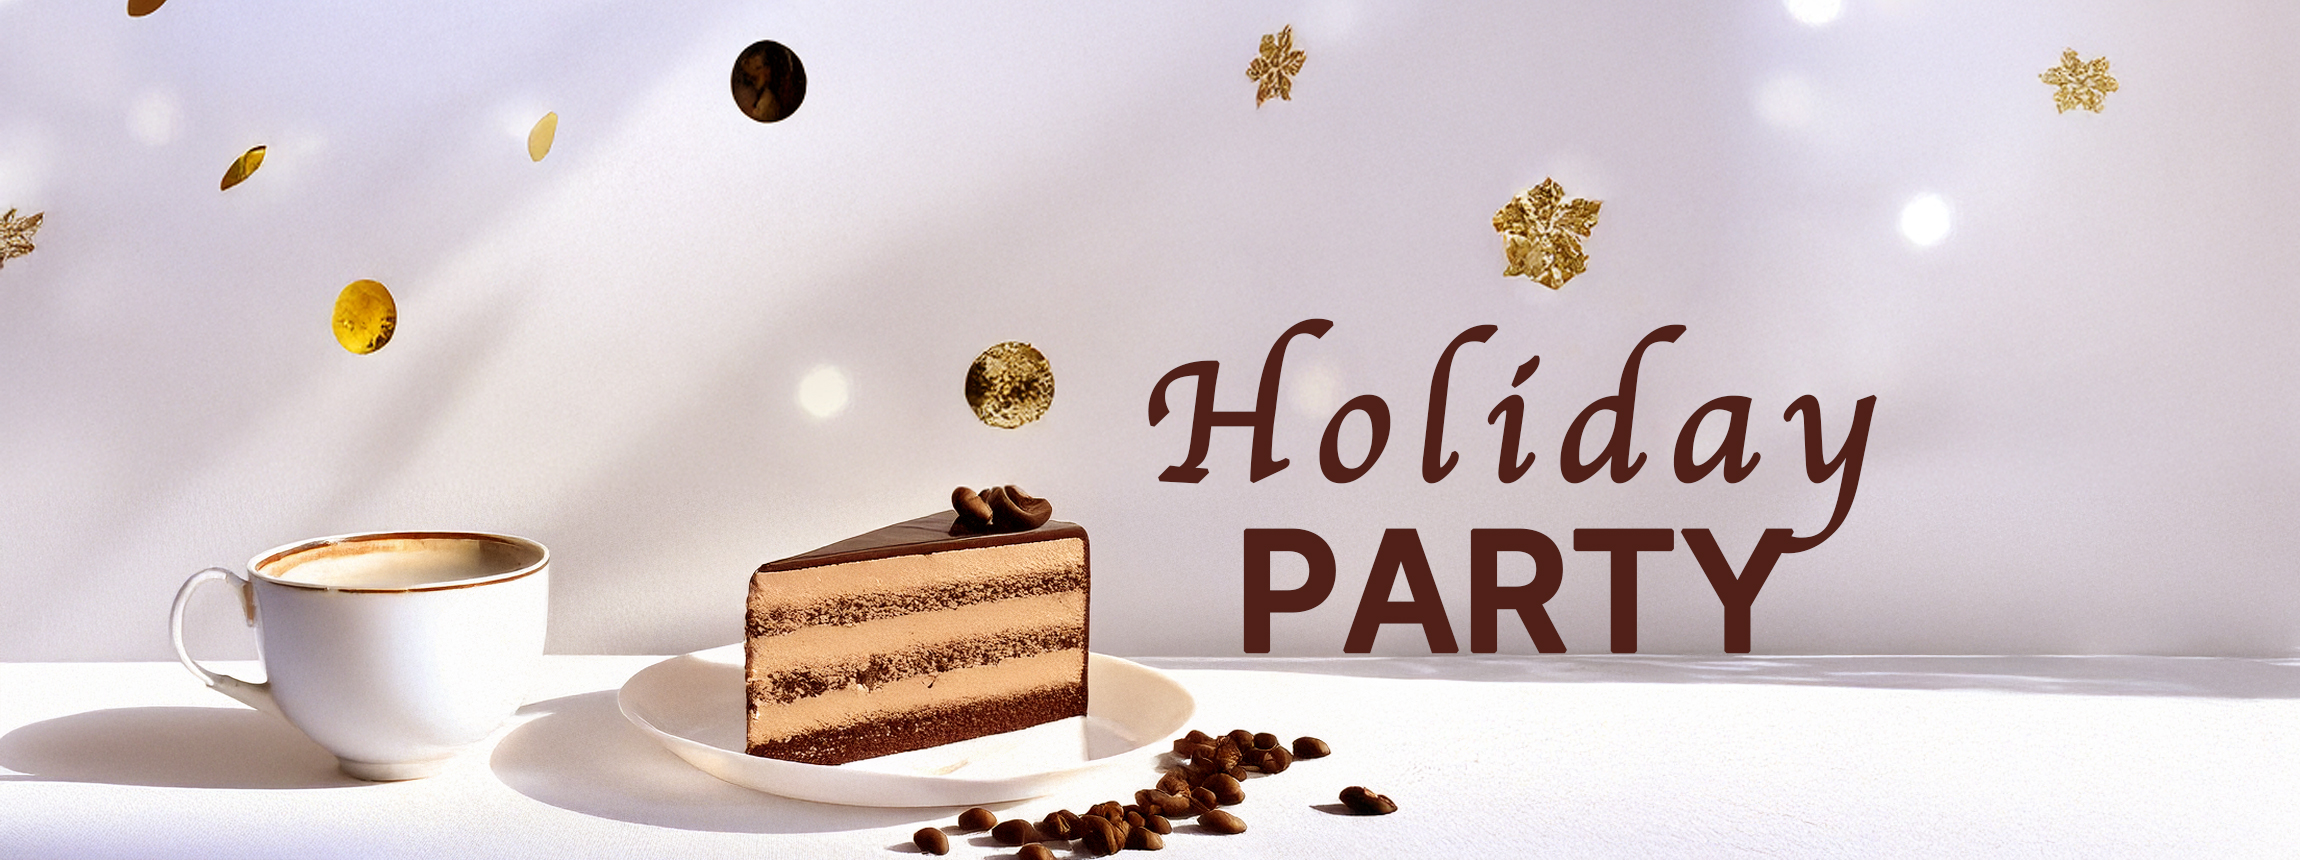
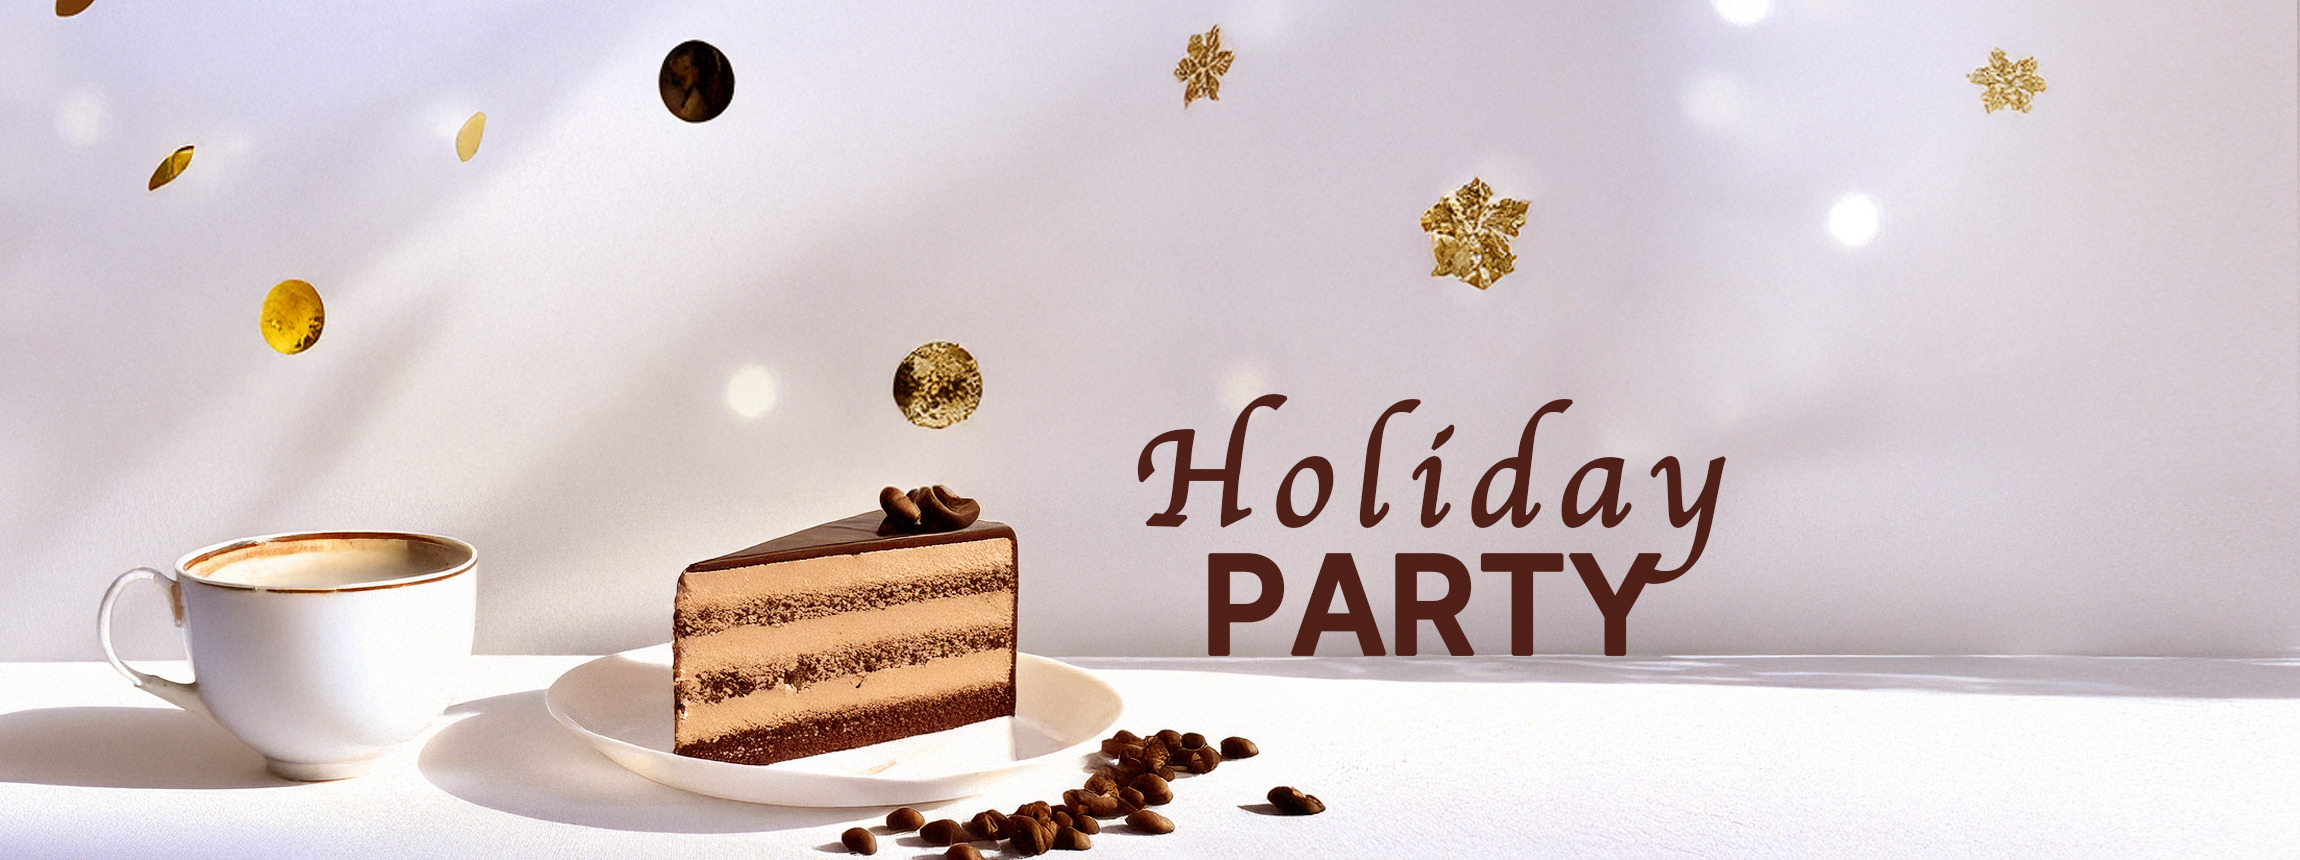
20250115

diff --git a/index.html b/index.html
@@ -11,57 +11,69 @@
 
 <body>
     <header>
-        <nav>
-            <ul class="nav_menu">
-                <li>
-                    <a href="#">메뉴</a>
-                </li>
-                <li>
-                    <a href="#">매장</a>
-                </li>
-                <li>
-                    <a href="#">쇼핑</a>
-                </li>
-                <li>
-                    <a href="#">소식</a>
-                </li>
-            </ul>
-            <a href="index.html">
-                <img src="images/logo_white.png" alt="지킴 로고">
-            </a>
-            <ul class="nav_icon">
-                <li>
-                    <a href="#">
-                        <img src="images/search.png" alt="검색">
-                    </a>
-                </li>
-                <li>
-                    <a href="#">
-                        <img src="images/mypage.png" alt="마이페이지">
-                    </a>
-                </li>
-                <li>
-                    <a href="#">
-                        <img src="images/cart.png" alt="장바구니">
-                    </a>
-                </li>
-            </ul>
-        </nav>
+        <div class="inner">
+            <nav>
+                <ul class="nav_menu">
+                    <li>
+                        <a href="#">메뉴</a>
+                    </li>
+                    <li>
+                        <a href="#">매장</a>
+                    </li>
+                    <li>
+                        <a href="#">쇼핑</a>
+                    </li>
+                    <li>
+                        <a href="#">소식</a>
+                    </li>
+                </ul>
+                <a href="index.html">
+                    <img src="images/logo_white.png" alt="지킴 로고">
+                </a>
+                <ul class="nav_icon">
+                    <li>
+                        <a href="#">
+                            <img src="images/search.png" alt="검색">
+                        </a>
+                    </li>
+                    <li>
+                        <a href="#">
+                            <img src="images/mypage.png" alt="마이페이지">
+                        </a>
+                    </li>
+                    <li>
+                        <a href="#">
+                            <img src="images/cart.png" alt="장바구니">
+                        </a>
+                    </li>
+                </ul>
+            </nav>
+        </div>
+
     </header>
     <main>
         <ul>
             <li class="s1">
-                <a href="#">
-
-                </a>
+                <a href="#"></a>
             </li>
             <li class="s2">
-                <a href="#">
-
-                </a>
+                <a href="#"></a>
             </li>
         </ul>
     </main>
+
+    <section class="menu_list">
+        <ul>
+            <li><a href="#">COFFEE</a></li>
+            <li><a href="#">FOOD</a></li>
+            <li><a href="#">MD상품</a></li>
+        </ul>
+
+        <ul>
+            <li><a href="#"></a></li>
+        </ul>
+    </section>
+
     <footer></footer>
 </body>
 

diff --git a/css/scss/style.scss b/css/scss/style.scss
@@ -3,7 +3,13 @@
 
 
 
-.inner {}
+.inner {
+    width: 90%;
+    height: 100%;
+    margin: 0 auto;
+    align-content: center;
+}
+
 
 header {
     width: 100%;
@@ -38,8 +44,7 @@ nav {
 
 main {
     width: 100%;
-    height: 350px;
-    background-color: salmon;
+    height: calc(100vh - 70px);
 
 
     ul {
@@ -57,6 +62,8 @@ main {
         }
 
         .s1 {
+            z-index: 2;
+
             a {
                 width: 100%;
                 height: 100%;
@@ -65,10 +72,12 @@ main {
         }
 
         .s2 {
+            z-index: 1;
+
             a {
                 width: 100%;
                 height: 100%;
-                background: url(../../images/main2.jpg)no-repeat center center/contain;
+                background: url(../../images/main2.jpg)no-repeat center/cover;
             }
         }
     }

diff --git a/css/style.css b/css/style.css
@@ -1,4 +1,11 @@
 @import url(./reset.css);
+.inner {
+  width: 90%;
+  height: 100%;
+  margin: 0 auto;
+  align-content: center;
+}
+
 header {
   width: 100%;
   height: 70px;
@@ -26,8 +33,7 @@ nav .nav_icon {
 
 main {
   width: 100%;
-  height: 350px;
-  background-color: salmon;
+  height: calc(100vh - 70px);
 }
 main ul {
   width: 100%;
@@ -41,13 +47,19 @@ main ul li {
   top: 0;
   left: 0;
 }
+main ul .s1 {
+  z-index: 2;
+}
 main ul .s1 a {
   width: 100%;
   height: 100%;
   background: url(../../images/main1.jpg) no-repeat center/cover;
 }
+main ul .s2 {
+  z-index: 1;
+}
 main ul .s2 a {
   width: 100%;
   height: 100%;
-  background: url(../../images/main2.jpg) no-repeat center center/contain;
+  background: url(../../images/main2.jpg) no-repeat center/cover;
 }
